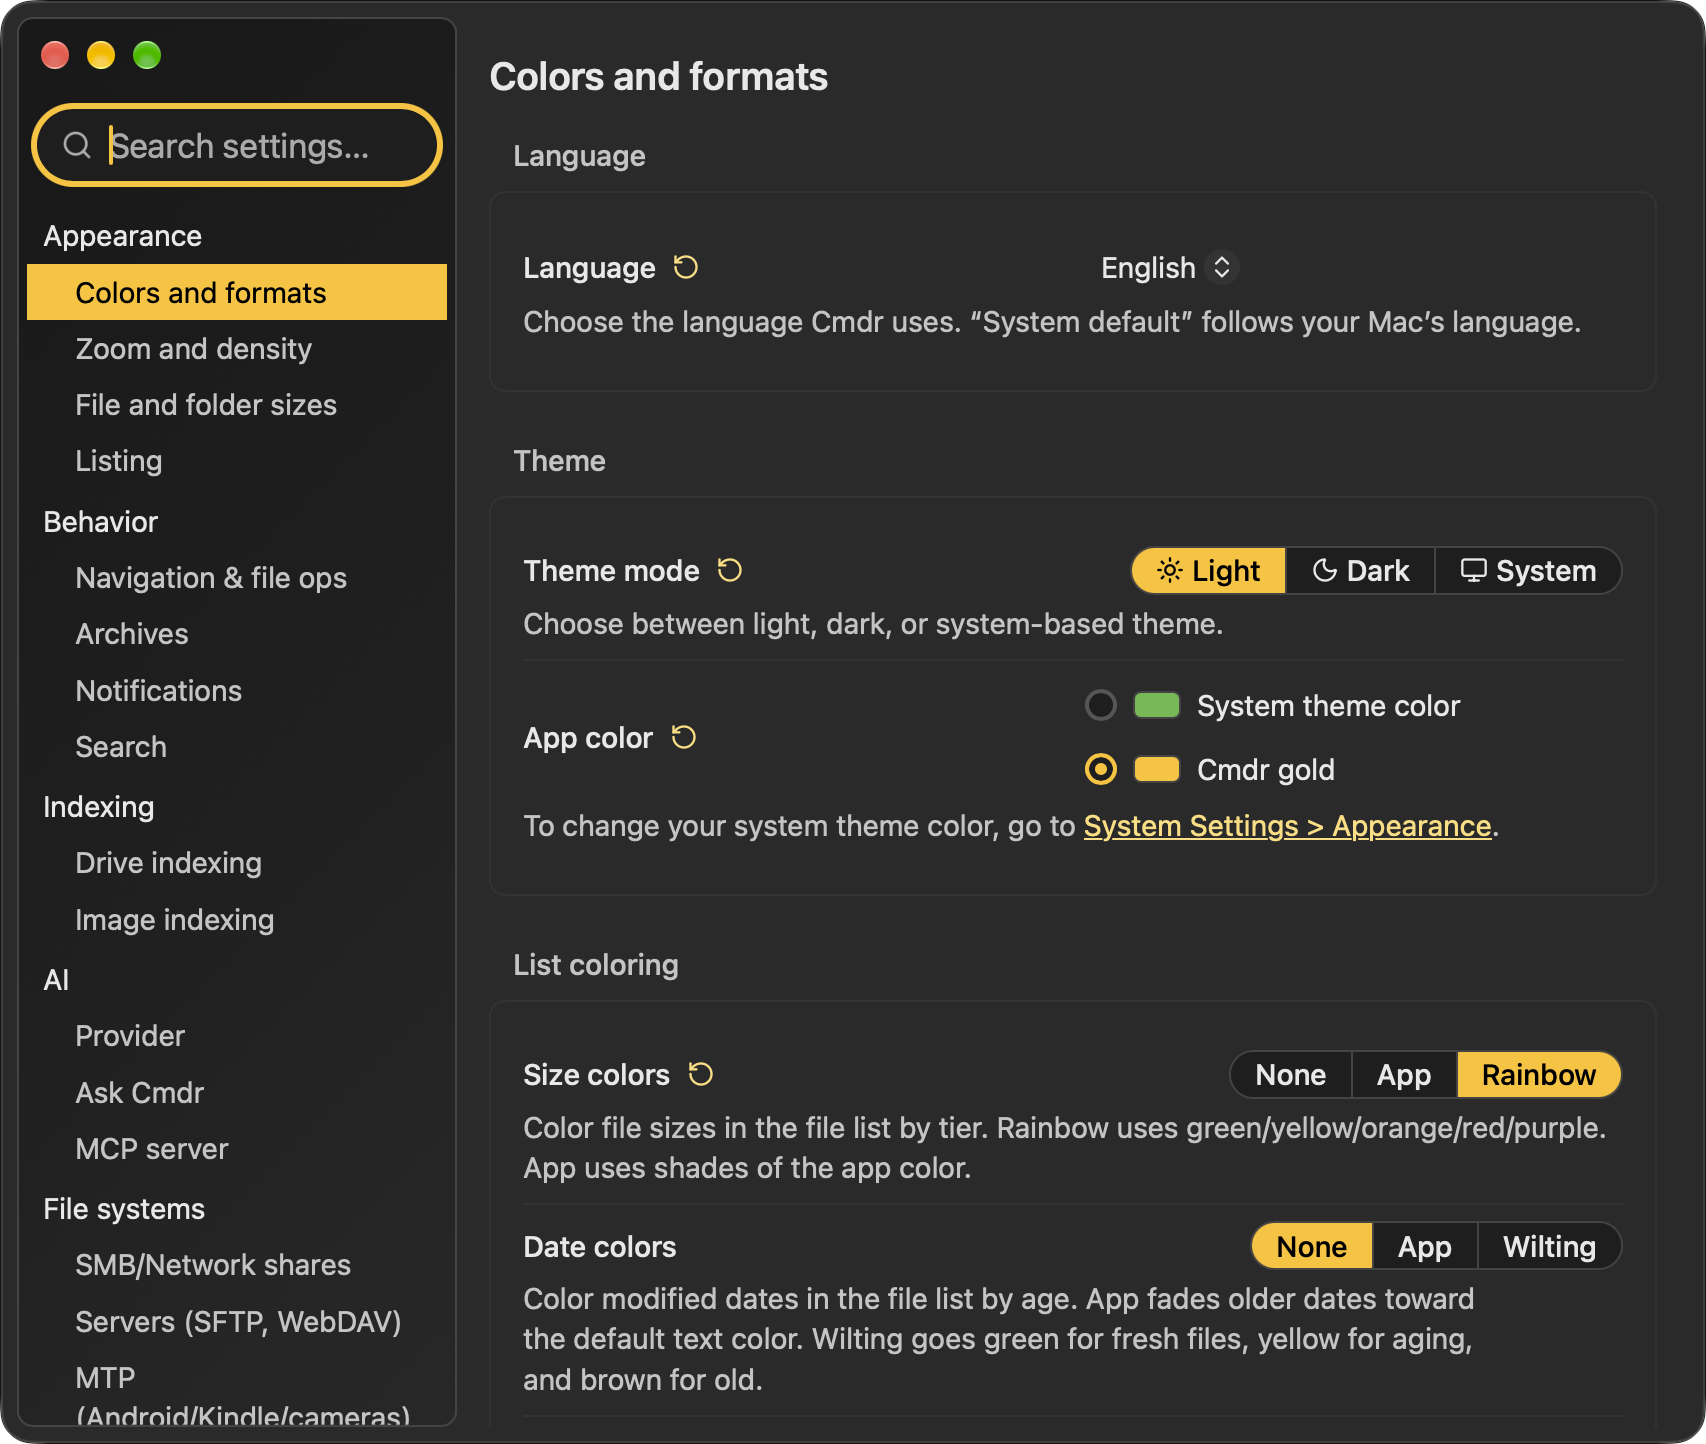
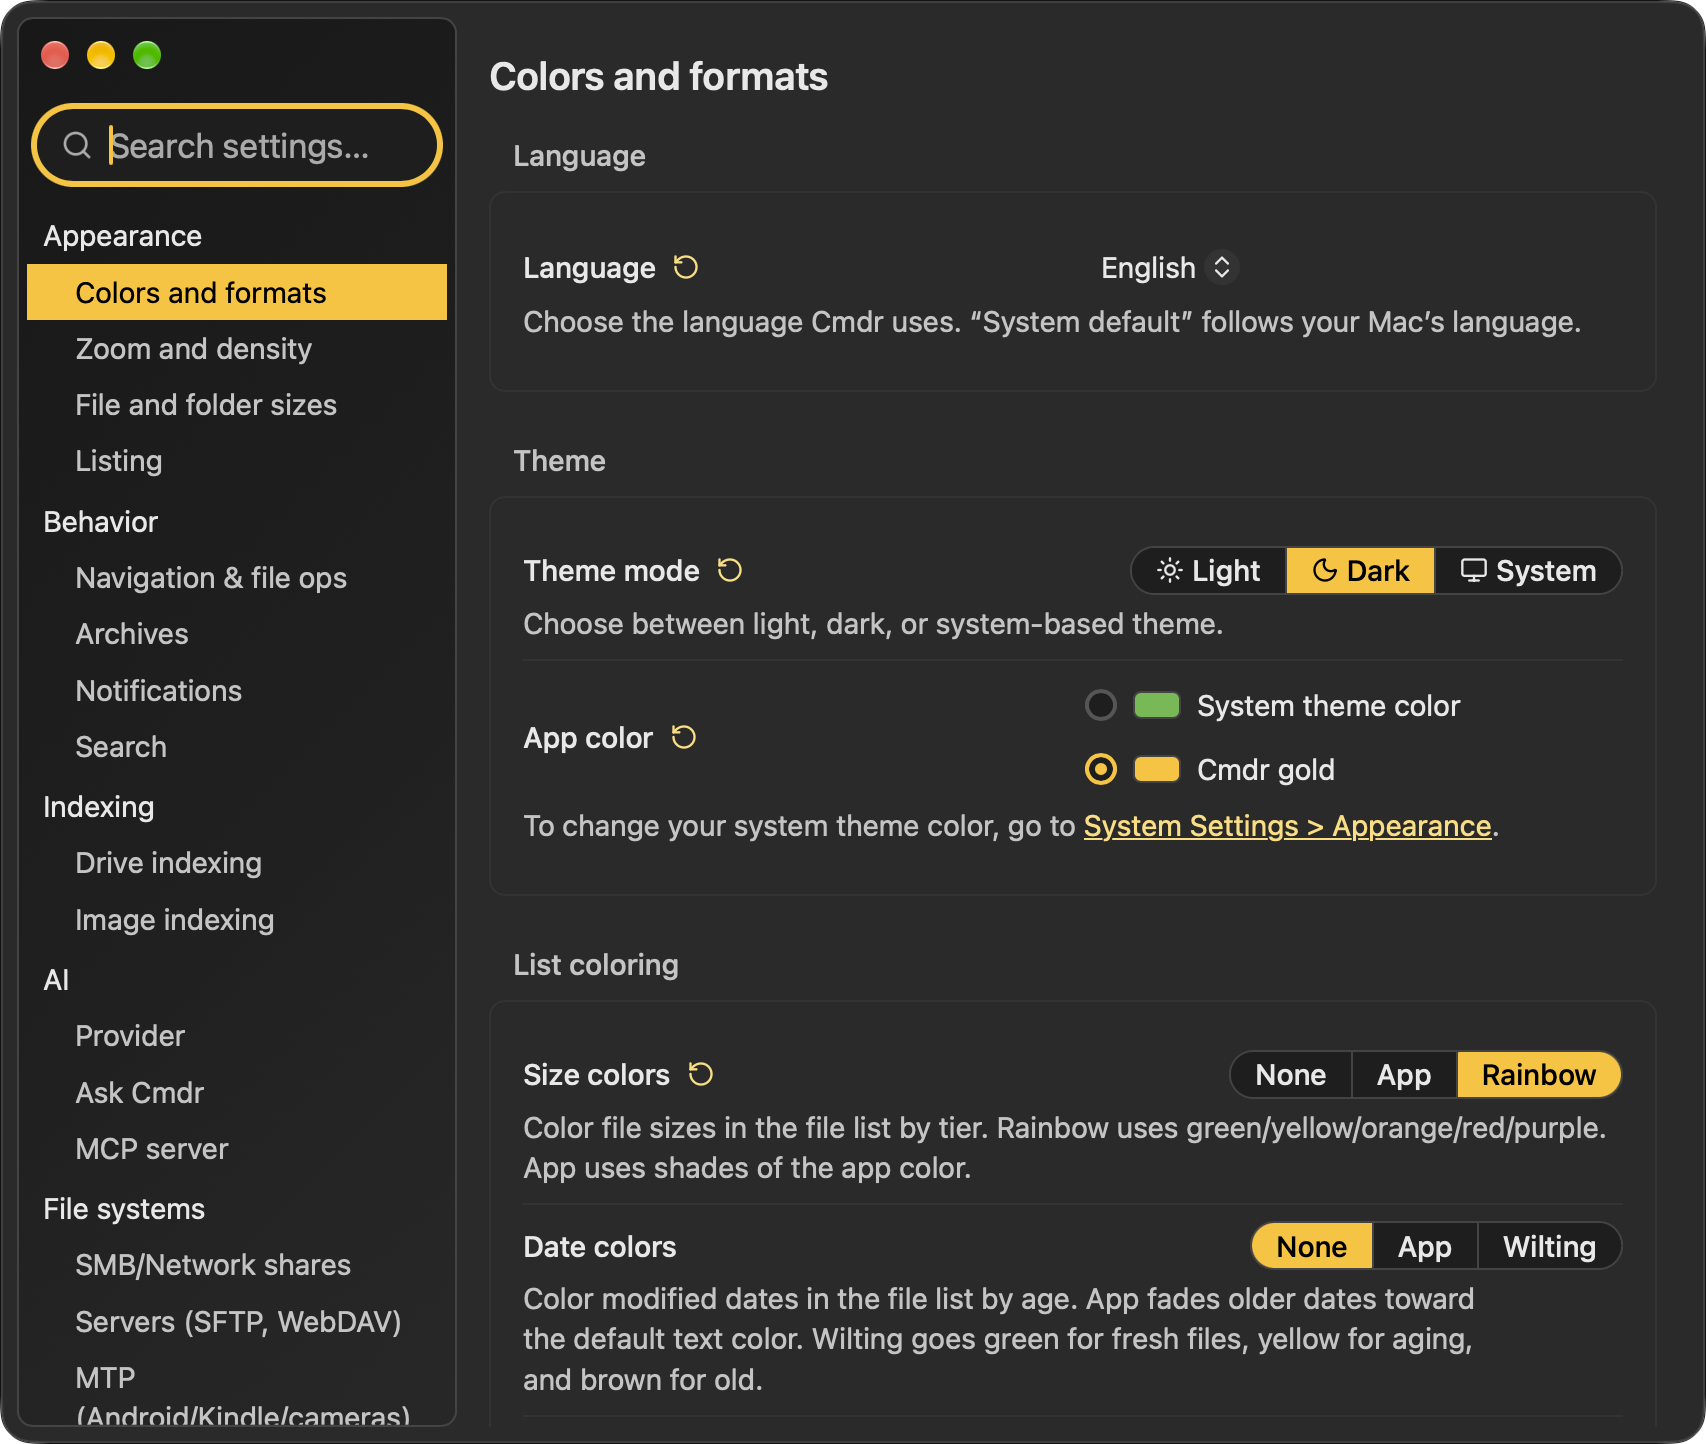
fix(brand): the dark Settings screenshot shows "Dark" picked under Theme mode, so the window and its own setting no longer disagree
- `marketing-shots.spec.ts` picks each Settings theme by clicking the Settings window's own Theme mode control (blurred afterwards, so no focus ring), then waits for both the control and the app's appearance to agree before the shutter.
- A theme set from the main window through the MCP bridge (`setTheme`) flipped the appearance but left the Settings window's control on "Light" for 10+ s, so the old dark master showed "Light" picked in a dark window.
- Reshot all eight masters and refreshed the website hero and the blog comparison crops from them; `docs/guides/screenshots.md` names the trap.

Changed region(s): [[0.6524, 0.374, 0.8388, 0.4363]]

diff --git a/apps/desktop/test/e2e-playwright/marketing-shots.spec.ts b/apps/desktop/test/e2e-playwright/marketing-shots.spec.ts
@@ -195,7 +195,19 @@ test.describe('marketing masters', () => {
     const metrics = await windowMetrics(page, 'settings')
 
     for (const mode of ['dark', 'light'] as const) {
-      await setTheme(page, mode)
+      // ❗ Through the Settings window's own control, not `setTheme`. A theme set from the
+      // main window flips the appearance app-wide but left this control on "Light", so the
+      // dark master showed "Light" picked inside a dark window (2026-11-14). Clicking it is
+      // what a user does, and the shot then can't disagree with itself.
+      await pickThemeInSettings(settings, mode)
+      await expect
+        .poll(() => themeToggleShows(settings), { timeout: waitBudget(10000) })
+        .toBe(THEME_MODE_ORDER.indexOf(mode))
+      await expect
+        .poll(async () => page.evaluate<boolean>(`window.matchMedia('(prefers-color-scheme: dark)').matches`), {
+          timeout: waitBudget(10000),
+        })
+        .toBe(mode === 'dark')
       await shootWindow(settings, 'settings', `settings-${mode}.webp`, metrics, mode)
     }
 
@@ -285,6 +297,30 @@ async function waitForAgentStore(page: TauriPage): Promise<void> {
       timeout: waitBudget(15000),
     })
     .not.toBe('storeUnavailable')
+}
+
+/** `theme.mode`'s options in the order its control draws them (`settings/definitions/appearance.ts`). */
+const THEME_MODE_ORDER = ['light', 'dark', 'system'] as const
+
+/**
+ * Which Theme mode option the settings window shows as picked, by position, or -1. By
+ * position so the check holds in any UI language.
+ */
+async function themeToggleShows(settings: TauriPage): Promise<number> {
+  return settings.evaluate<number>(
+    `[...(document.getElementById('setting-theme.mode')?.querySelectorAll('.tg-item') ?? [])].findIndex((item) => item.getAttribute('data-state') === 'on')`,
+  )
+}
+
+/** Clicks the Theme mode option for `mode` in the settings window, by position. */
+async function pickThemeInSettings(settings: TauriPage, mode: 'dark' | 'light'): Promise<void> {
+  const index = THEME_MODE_ORDER.indexOf(mode)
+  // `.settings-window` mounts before its section does, so the control can be a beat behind.
+  await settings.waitForSelector('[id="setting-theme.mode"] .tg-item', waitBudget(15000))
+  const clicked = await settings.evaluate<boolean>(
+    `(() => { const item = document.getElementById('setting-theme.mode')?.querySelectorAll('.tg-item')[${String(index)}]; item?.click(); document.activeElement?.blur(); return !!item })()`,
+  )
+  expect(clicked, 'the Theme mode control is missing from the settings window').toBe(true)
 }
 
 async function railOpen(page: TauriPage): Promise<boolean> {

diff --git a/docs/guides/screenshots.md b/docs/guides/screenshots.md
@@ -173,6 +173,9 @@ The traps already encoded there, so you don't rediscover them:
   would come from a window nobody ships.
 - Unpin before closing tabs. `close_others` deliberately skips pinned tabs, so a remembered pin leaves a third tab in
   the shot.
+- The settings master picks its theme by clicking the settings window's own Theme mode control. A theme set from the
+  main window (`setTheme`) flips the appearance but left that control on "Light", so the dark master showed "Light"
+  picked in a dark window (2026-11-14).
 - The settings window's size is read from the MAIN window. Its own restricted capability rejects
   `plugin:window|inner_size`, which is production behaving correctly.
 
